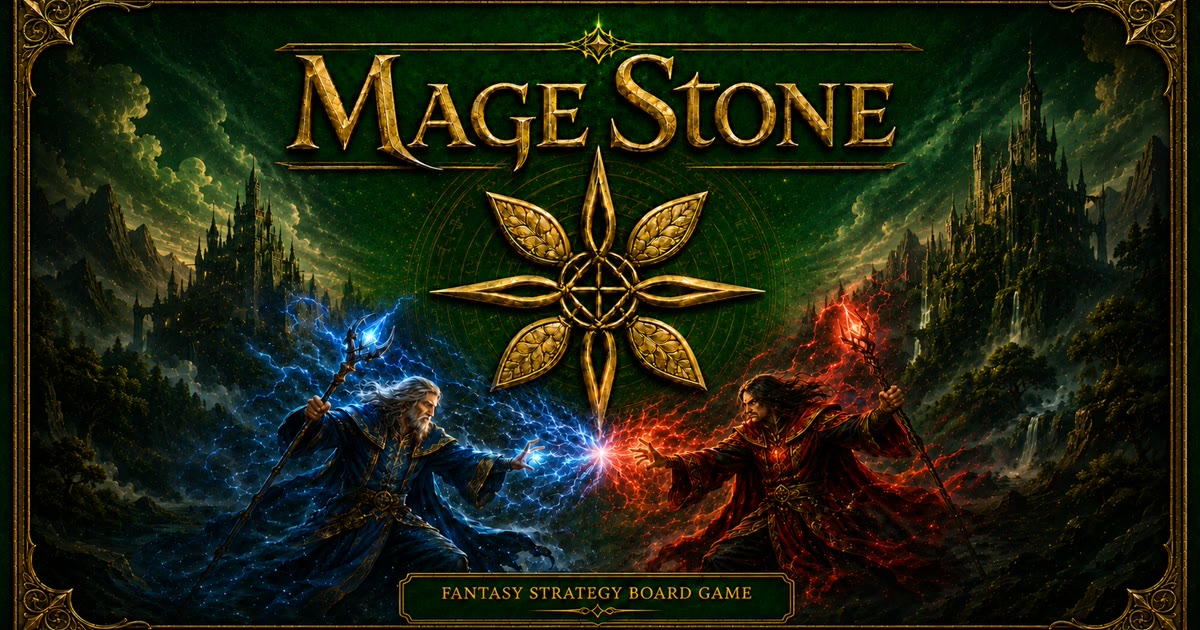
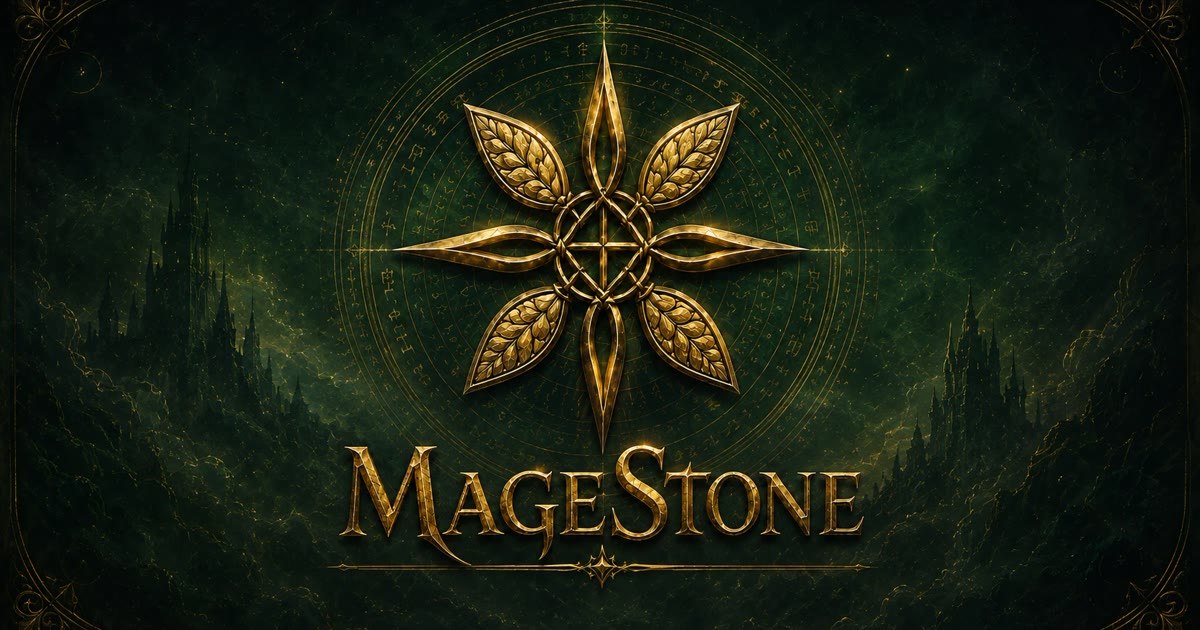
v0.7.4: new emblem cover art fronts the main menu
The gold MageStone emblem artwork is the landing page on desktop and
mobile. Measured the art (frame ~2% in, emblem tip 8%, wordmark to 80%,
flourish to 89%) and tuned the CSS to it: uniform 1.033 overscan, matte
#050807, scrim below the wordmark, cover footer lift 13vh -> 3vh, phone
crop window anchored at 42% so emblem AND wordmark stay in frame on
2.16:1 phones, trust line hidden on the phone cover (links row only).
COVER_VER 3 + preload query synced; og.jpg regenerated from the art.
Verified by screenshot audit: desktop/mobile, menu closed/open, sign-in.

diff --git a/src/App.css b/src/App.css
@@ -1394,13 +1394,12 @@ body.ui-mobile .die-label {
 .entry-footer-links .link-btn {
   font-size: var(--text-xs);
 }
-/* On the landing COVER the box art is the page, and its bottom plaque reads
-   "FANTASY STRATEGY BOARD GAME" — lift the footer clear of it so no artwork
-   wording is ever covered (the plaque's top sits ~12% up the art on 16:9-ish
-   desktop viewports; on phones the plaque is cropped off and the mobile
-   override below re-anchors the footer to the bottom edge). */
+/* On the landing COVER the emblem art is the page: the MAGESTONE wordmark's
+   underline flourish ends ~89% down the art, and the baked gold frame line
+   sits ~2% from the bottom — a small lift parks the footer in the plain dark
+   band between them so no artwork is ever covered on 16:9-ish desktops. */
 .entry--cover .entry-footer {
-  bottom: calc(env(safe-area-inset-bottom, 0px) + 13vh);
+  bottom: calc(env(safe-area-inset-bottom, 0px) + 3vh);
 }
 /* Non-cover entry screens (sign-in / lobby / room): the gilt panel's
    backdrop-filter makes it the containing block for fixed descendants, so the
@@ -2914,35 +2913,36 @@ body.ui-mobile .tut-gotit {
   inset: 0;
   overflow: hidden;
   pointer-events: none;
-  /* Emerald matte matching the colour the cover art is padded with, so it reads
-     as the green field continuing seamlessly beyond the gold border (and it's
-     what shows for the split-second before the image decodes). */
-  background: #212411;
+  /* Near-black emerald matte matching the emblem cover art's corner tone, so
+     it reads as the dark field continuing beyond the frame (and it's what
+     shows for the split-second before the image decodes). */
+  background: #050807;
 }
 .entry-photo {
   width: 100%;
   height: 100%;
   /* Cover so the hero fills the whole screen edge-to-edge on any aspect ratio
      (e.g. 16:10 laptops at 125% scale — no letterbox bars). A sliver of the
-     art's outer frame may crop on non-16:9 screens; the centred title and
-     duel stay in frame. */
+     art's outer frame may crop on non-16:9 screens; the centred emblem and
+     wordmark stay in frame. */
   object-fit: cover;
   object-position: 50% 50%;
-  /* The 1920×1080 cover art has a ~20-25px dark MARGIN baked around its gilt
-     border (measured per side). Overscan per-axis (clipped by the wrap's
-     overflow:hidden) so that margin is cropped and the ornate border reaches
-     the screen edge on all four sides — non-uniform because the equal-pixel
-     margins are a smaller % on the wide axis. The .entry--cover::after gold
-     frame backstops whichever axis object-fit:cover crops on non-16:9 screens. */
-  transform: scale(1.028, 1.046);
+  /* The 1672×941 emblem cover has a thin dark margin outside its baked gold
+     frame line (~1.5-2% per side). A light uniform overscan (clipped by the
+     wrap's overflow:hidden) crops most of that margin so the art's frame sits
+     just inside the screen edge; the .entry--cover::after gold frame backstops
+     whichever axis object-fit:cover crops on non-16:9 screens. */
+  transform: scale(1.033);
 }
 /* gentle scrim: keep the art bright, only darken the bottom for the controls */
 .entry-photo-wrap::after {
   content: '';
   position: absolute;
   inset: 0;
-  /* Only a faint darkening at the very bottom so the controls stay legible. */
-  background: linear-gradient(180deg, rgba(3, 8, 5, 0) 70%, rgba(3, 8, 5, 0.5) 100%);
+  /* Only a faint darkening at the very bottom so the footer stays legible —
+     kept below the art's MAGESTONE wordmark (ends ~89%) so the gold lettering
+     is never dulled. */
+  background: linear-gradient(180deg, rgba(3, 8, 5, 0) 82%, rgba(3, 8, 5, 0.45) 100%);
 }
 .entry-castle {
   opacity: 0.9;
@@ -3728,11 +3728,17 @@ body.ui-mobile .menu-subitem {
 body.ui-mobile .menu-sub {
   margin-left: 18px;
 }
-/* On phones the art is top-anchored, so its bottom plaque is cropped off —
-   the footer can sit right on the bottom edge (the desktop cover rule lifts
-   it 13vh to clear the "FANTASY STRATEGY BOARD GAME" plaque). */
+/* On phones the crop window ends just past the wordmark flourish, so the
+   footer sits on the bottom edge over the thin flourish tail only (its text
+   shadows keep it legible; the desktop cover rule lifts it 3vh instead). */
 body.ui-mobile .entry--cover .entry-footer {
   bottom: calc(env(safe-area-inset-bottom, 0px) + 8px);
+}
+/* The short viewport can't fit the trust line without it sitting on the
+   MAGESTONE wordmark's feet — keep just the links row on the phone cover
+   (the line still shows on desktop and on every non-cover entry screen). */
+body.ui-mobile .entry--cover .entry-footer-line {
+  display: none;
 }
 /* Entry screens on mobile: the music/fullscreen pills leave the bottom-left
    (they sat on the Early Alpha footer note) and ride top-right instead, over
@@ -3751,14 +3757,14 @@ body.ui-mobile.on-entry .fs-toggle {
   right: calc(env(safe-area-inset-right, 0px) + 8px);
 }
 /* Cover art on phones: a phone in landscape is far wider (≈2.16) than the 16:9
-   art, so object-fit:cover would crop a big band off the TOP and bottom — hiding
-   the gold star + "MageStone" wordmark the user wants visible. Anchor the art to
-   the TOP so the emblem, wordmark and top border always show (the extra height
-   is shed off the BOTTOM instead), and overscan only HORIZONTALLY so the side
-   dark margins are cropped and the gilt side borders still reach the edge. */
+   art, so object-fit:cover crops ~18% of the art's height. The emblem's tip
+   sits ~8% down and the wordmark flourish ends ~89%, so anchor the crop window
+   at 42% — both stay in frame on a 2.16 phone (the window shows ~7.5%–89.7%).
+   Overscan only HORIZONTALLY so the side dark margins crop and the art's gilt
+   side frame stays near the edge. */
 body.ui-mobile .entry-photo {
-  object-position: 50% 0%;
-  transform: scale(1.028, 1);
+  object-position: 50% 42%;
+  transform: scale(1.033, 1);
 }
 body.ui-mobile .modal {
   max-height: 96vh;

diff --git a/src/version.ts b/src/version.ts
@@ -1,8 +1,9 @@
 // Bumped with each notable alpha update — shown in the landing footer.
-export const VERSION = 'v0.7.3-alpha';
+export const VERSION = 'v0.7.4-alpha';
 export const UPDATED = '21 July 2026';
 
 export const PATCH_NOTES = [
+  'v0.7.4 — New main-menu artwork: the gold MageStone emblem cover now fronts the game, tuned for desktop and phones (the emblem and wordmark stay in frame at any screen shape). Same menu, same controls, grander door.',
   'v0.7.3 — Siege and Conquest are now hands-on in the tutorial: you lay the siege yourself, switch sides to break it as Blue (freeing the respawn queue the instant the intruder falls), then seal Blue’s base and land the finishing blow for a Conquest victory. Every scene of the tutorial is now played, not watched.',
   'v0.7.2 — Tutorial guardrails: during each hands-on step only the taught move works. Wrong units, wrong squares and wrong buttons simply don’t respond, so you can’t derail the lesson — walk the Priest only onto the gravestone, launch only the Triple Attack, step the Mage only onto your base.',
   'v0.7.1 — Real orchestral soundtrack: a cinematic fantasy theme on the main menu and a calm magical score during matches (licensed from the Ultimate Game Music Collection), replacing the old synthesised tune. Crossfades between screens; the music toggle works as before.',

diff --git a/index.html b/index.html
@@ -10,7 +10,7 @@
     <meta name="apple-mobile-web-app-status-bar-style" content="black-translucent" />
     <meta name="apple-mobile-web-app-title" content="MageStone" />
     <meta name="theme-color" content="#0c2118" />
-    <link rel="preload" as="image" href="/cover-art.webp" />
+    <link rel="preload" as="image" href="/cover-art.webp?v=3" />
     <meta
       name="viewport"
       content="width=device-width, initial-scale=1.0, maximum-scale=1.0, user-scalable=no, viewport-fit=cover"

diff --git a/src/ui/screens/Screens.tsx b/src/ui/screens/Screens.tsx
@@ -54,7 +54,7 @@ function Mage({ color, glow, flip }: { color: string; glow: string; flip?: boole
 // art (so the SVG never flashes underneath while the real image is loading).
 // Bump COVER_VER whenever the cover image changes — the filename stays the same,
 // so the version query is what stops browsers serving a stale cached copy.
-const COVER_VER = 2;
+const COVER_VER = 3;
 const COVER_SRCS = ['/cover-art.webp', '/cover-art.png', '/cover-art.jpg'].map((s) => `${s}?v=${COVER_VER}`);
 function EntryPhoto() {
   const [idx, setIdx] = useState(0);